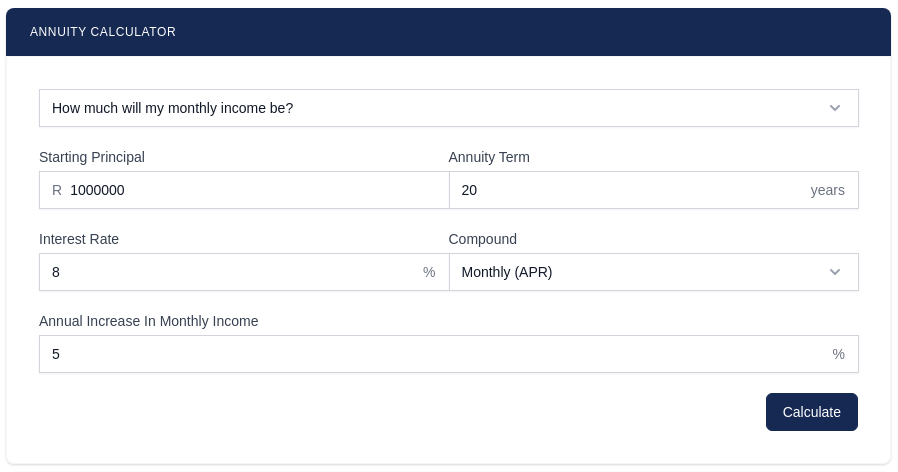
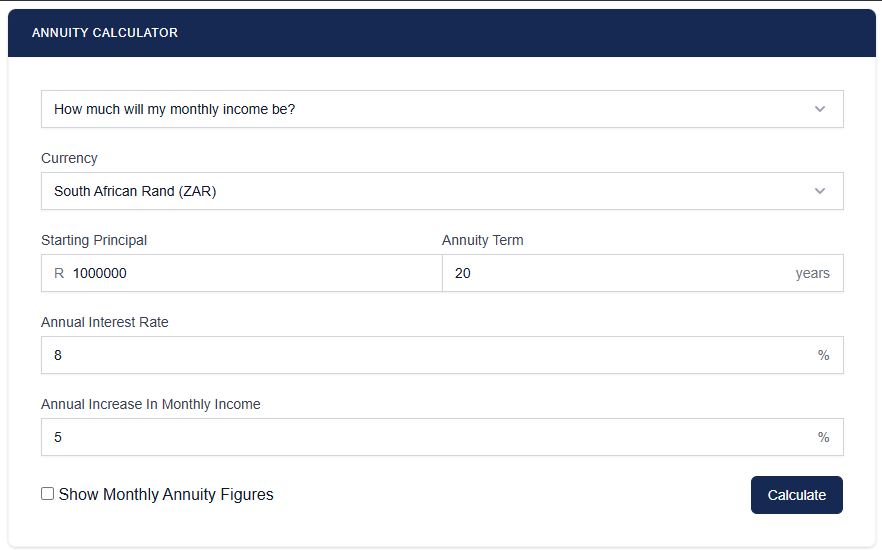
Update readme

diff --git a/readme.md b/readme.md
@@ -1,6 +1,8 @@
 # Annuity Calculator Widget for WordPress
 
-This is a free annuity calculator.
+This is a free annuity calculator widget that can be embedded in wordpress sites.
+
+View the live site at https://malcolm-hall.github.io/annuity-calculator
 
 ![Annuity Calculator Input Form](/assets/images/input-form.png "Annuity Calculator Input Form")
 ![Annuity Calculator Calculation Results](/assets/images/output-results.png "Annuity Calculator Calculation Results")
